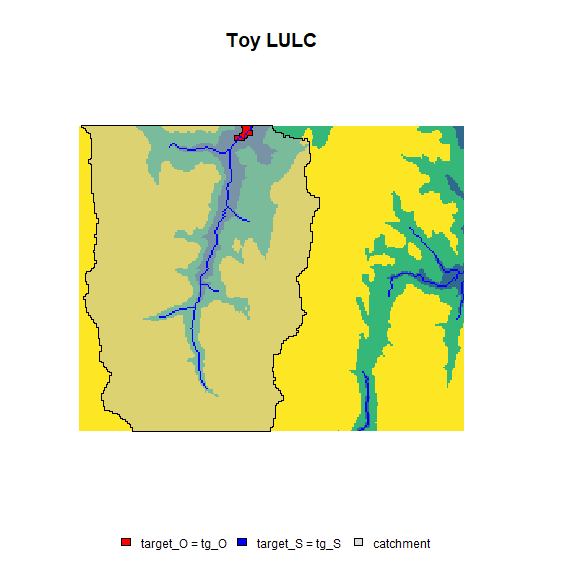
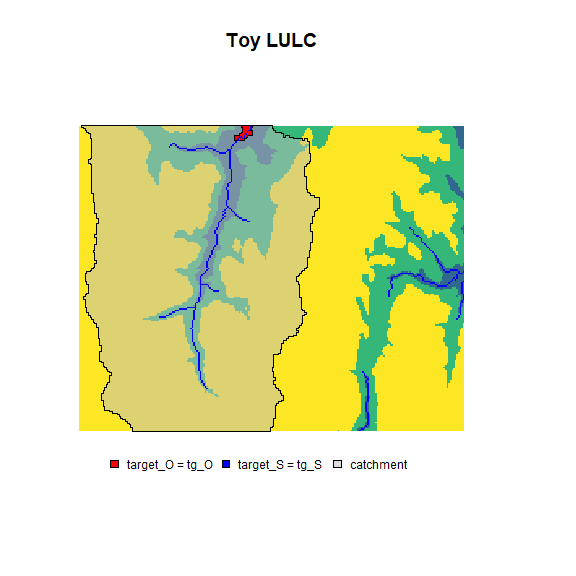
Update to 1.2.4; see NEWS

Changed region(s): [[0.2188, 0.9375, 0.75, 0.9688], [0.1875, 0.7812, 0.7188, 0.8125]]

diff --git a/README.md b/README.md
@@ -229,12 +229,12 @@ or raster type targets (see `?hydroweight`). Targets are often called
 cells, polygons, polylines, or points.
 
 Our first target is a low lying area we will call a lake (`tg_O`). All
-cells &lt;220 m elevation are assigned `TRUE` or `1` and those &gt;220 m
-are assigned `NA`. We also generate its catchment (`tg_O_catchment`)
-using `whitebox::wbt_watershed()`. Our target streams (`tg_S`) are
-loaded from the `whitebox::wbt_extract_streams()` output. Finally, we do
-some manipulation to the stream network raster to generate three points
-along the stream network (`tg_O_multi`) and their catchments
+cells \<220 m elevation are assigned `TRUE` or `1` and those \>220 m are
+assigned `NA`. We also generate its catchment (`tg_O_catchment`) using
+`whitebox::wbt_watershed()`. Our target streams (`tg_S`) are loaded from
+the `whitebox::wbt_extract_streams()` output. Finally, we do some
+manipulation to the stream network raster to generate three points along
+the stream network (`tg_O_multi`) and their catchments
 (`tg_O_multi_catchment`).
 
 ``` r
@@ -316,7 +316,7 @@ Below, `hydroweight()` is run using our lake as `target_O` for iEucO,
 iFLO, and HAiFLO, and using our streams as `target_S` for iEucS, iFLS,
 and HAiFLS. For export of the distance-weighted rasters, we use “Lake”;
 the .rds exported from `hydroweight()` to `hydroweight_dir` will now be
-called “Lake\_inv\_distances.rds”. Since our DEM is small, we decide to
+called “Lake_inv_distances.rds”. Since our DEM is small, we decide to
 not clip our region (i.e., `clip_region = NULL`). Using
 `OS_combine = TRUE`, we indicate that distances to the nearest water
 feature will be either the lake or stream. Furthermore, for HAiFLO or
@@ -367,8 +367,9 @@ hw_test_1 <- hydroweight::hydroweight(
   ),
   inv_function = myinv
 )
-#> Preparing hydroweight layers @ 2021-09-22 16:29:58
-#> Running distance-weighting @ 2021-09-22 16:30:01
+#> Preparing hydroweight layers @ 2021-12-15 16:44:45
+#> Running distance-weighting @ 2021-12-15 16:44:49
+
 ## Resultant structure:
 # length(hw_test_1) ## 1 set of targets and 7 distance-weighted rasters
 # hw_test_1[[1]] ## lumped
@@ -388,7 +389,7 @@ layout(matrix(c(
   1, 2, 3, 4,
   1, 5, 6, 7
 ), nrow = 2, byrow = TRUE))
-plot(hw_test_1[[1]], main = "Lumped", axes = F, legend = F, box = FALSE, col = viridis(101))
+plot(hw_test_1[[1]], main = "Lumped", axes = F, legend = F, box = FALSE, col = viridis(101)[101])
 plot(hw_test_1[[2]], main = "iEucO", axes = F, legend = F, box = FALSE, col = viridis(101))
 plot(hw_test_1[[3]], main = "iFLO", axes = F, legend = F, box = FALSE, col = viridis(101))
 plot(log(hw_test_1[[4]]), main = "HAiFLO", axes = F, legend = F, box = FALSE, col = viridis(101))
@@ -538,15 +539,16 @@ hw_test_5 <- foreach(xx = 1:nrow(tg_O_multi), .errorhandling = "pass") %do% {
 
   return(hw_test_xx)
 }
-#> Running hydroweight for site 1 at 2021-09-22 16:30:23
-#> Preparing hydroweight layers @ 2021-09-22 16:30:23
-#> Running distance-weighting @ 2021-09-22 16:30:26
-#> Running hydroweight for site 2 at 2021-09-22 16:30:31
-#> Preparing hydroweight layers @ 2021-09-22 16:30:31
-#> Running distance-weighting @ 2021-09-22 16:30:33
-#> Running hydroweight for site 3 at 2021-09-22 16:30:38
-#> Preparing hydroweight layers @ 2021-09-22 16:30:38
-#> Running distance-weighting @ 2021-09-22 16:30:41
+#> Running hydroweight for site 1 at 2021-12-15 16:45:23
+#> Preparing hydroweight layers @ 2021-12-15 16:45:23
+#> Running distance-weighting @ 2021-12-15 16:45:27
+#> Running hydroweight for site 2 at 2021-12-15 16:45:33
+#> Preparing hydroweight layers @ 2021-12-15 16:45:33
+#> Running distance-weighting @ 2021-12-15 16:45:36
+#> Running hydroweight for site 3 at 2021-12-15 16:45:43
+#> Preparing hydroweight layers @ 2021-12-15 16:45:43
+#> Running distance-weighting @ 2021-12-15 16:45:46
+
 ## Resultant structure:
 ## length(hw_test_5) # 3 sites
 ## length(hw_test_5[[1]]) # 7 distance-weighted rasters for each site
@@ -655,11 +657,10 @@ for each `roi`:`loi` combination are calculated using
 </p>
 
 where ![n](https://latex.codecogs.com/png.latex?n "n") is the number of
-cells, ![w\_i](https://latex.codecogs.com/png.latex?w_i "w_i") are the
-cell weights, and
-![x\_i](https://latex.codecogs.com/png.latex?x_i "x_i") are `loi` cell
-values, ![m](https://latex.codecogs.com/png.latex?m "m") is the number
-or non-zero weights, and
+cells, ![w_i](https://latex.codecogs.com/png.latex?w_i "w_i") are the
+cell weights, and ![x_i](https://latex.codecogs.com/png.latex?x_i "x_i")
+are `loi` cell values, ![m](https://latex.codecogs.com/png.latex?m "m")
+is the number or non-zero weights, and
 ![\\bar{x}^\*](https://latex.codecogs.com/png.latex?%5Cbar%7Bx%7D%5E%2A "\bar{x}^*")
 is the weighted mean. For categorical inputs, the proportion for each
 `roi`:`loi` combination is calculated using
@@ -669,10 +670,10 @@ is the weighted mean. For categorical inputs, the proportion for each
 </p>
 
 where
-![I(k\_i)=1](https://latex.codecogs.com/png.latex?I%28k_i%29%3D1 "I(k_i)=1")
+![I(k_i)=1](https://latex.codecogs.com/png.latex?I%28k_i%29%3D1 "I(k_i)=1")
 when category ![k](https://latex.codecogs.com/png.latex?k "k") is
 present in a cell or
-![I(k\_i)=0](https://latex.codecogs.com/png.latex?I%28k_i%29%3D0 "I(k_i)=0")
+![I(k_i)=0](https://latex.codecogs.com/png.latex?I%28k_i%29%3D0 "I(k_i)=0")
 when not.
 
 Finally, `loi` `NA` values are handled differently depending on `loi`
@@ -729,6 +730,7 @@ names(hwa_test_numeric$attribute_table)
 #> [17] "iEucS_ndvi_distwtd_mean"   "iEucS_ndvi_distwtd_sd"    
 #> [19] "iFLS_ndvi_distwtd_mean"    "iFLS_ndvi_distwtd_sd"     
 #> [21] "HAiFLS_ndvi_distwtd_mean"  "HAiFLS_ndvi_distwtd_sd"
+
 ## Resultant structure
 ## length(hw_test_numeric) # Length 2; 1) attribute table, 2) processing components for 7 inputted distance-weighted rasters
 ## hw_test_numeric[[1]] == hw_test_numeric$attribute_table # Attribute table
@@ -822,6 +824,7 @@ names(hwa_test_categorical$attribute_table)
 #> [22] "iFLS_lulc_prop_1"   "iFLS_lulc_prop_2"   "iFLS_lulc_prop_3"  
 #> [25] "iFLS_lulc_prop_4"   "HAiFLS_lulc_prop_1" "HAiFLS_lulc_prop_2"
 #> [28] "HAiFLS_lulc_prop_3" "HAiFLS_lulc_prop_4"
+
 ## Resultant structure
 ## length(hw_test_categorical) # Length 2; 1) attribute table, 2) processing components for 7 inputted distance-weighted rasters
 ## hw_test_categorical[[1]] == hw_test_categorical$attribute_table # Attribute table
@@ -982,6 +985,7 @@ names(hwa_test_numeric_polygon$attribute_table)
 #> [37] "iFLS_lulc_var_2_distwtd_sd"      "HAiFLS_lulc_var_1_distwtd_mean" 
 #> [39] "HAiFLS_lulc_var_2_distwtd_mean"  "HAiFLS_lulc_var_1_distwtd_sd"   
 #> [41] "HAiFLS_lulc_var_2_distwtd_sd"
+
 ## Resultant structure
 ## length(hw_test_numeric_polygon) # Length 2; 1) attribute table, 2) processing components for 7 inputted distance-weighted rasters
 ## hw_test_numeric_polygon[[1]] == hw_test_numeric_polygon$attribute_table # Attribute table
@@ -1050,6 +1054,7 @@ names(hwa_test_categorical_polygon$attribute_table)
 #> [39] "HAiFLS_lulc_prop_var_1_10" "HAiFLS_lulc_prop_var_1_2" 
 #> [41] "HAiFLS_lulc_prop_var_2_22" "HAiFLS_lulc_prop_var_2_29"
 #> [43] "HAiFLS_lulc_prop_var_2_21"
+
 ## Resultant structure
 ## length(hw_test_categorical_polygon) # Length 2; 1) attribute table, 2) processing components for 7 inputted distance-weighted rasters
 ## hw_test_categorical_polygon[[1]] == hw_test_categorical_polygon$attribute_table # Attribute table

diff --git a/NEWS.md b/NEWS.md
@@ -1,3 +1,11 @@
+## hydroweight 1.2.4 
+
+* Added Peterson et al. 2011 paper to CITATION. 
+* Changed hardcoding of 0-30000 to 0-1000000 when needing to capture all realistic values of dem; I've noticed `max` sometimes missed large values? Check in forthcoming 1.2.5 release.
+* Added ability to have per-weighting scheme inverse distance weighting functions via a named list.
+* Added a temporary raster clean up process for out-of-memory rasters. When rasters must be stored out-of-memory, they are placed in `hydroweight_dir` with a `hydroweight_` tag and cleaned up after each `hydroweight()` run. Thanks to Emily Smenderovac for pointing out that her computer was full.
+* Changed `lumped` in figures to yellow signifying lumped weights = 1.
+
 ## hydroweight 1.2.3 
 
 * sets verbose_mode = FALSE for all `whitebox` functions using `wbt_options` in `hydroweight()`.
